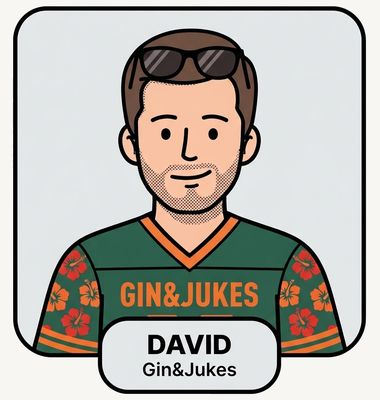
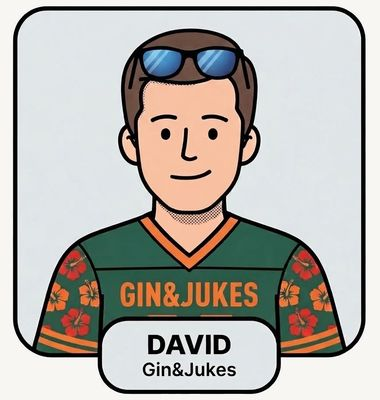
Add files via upload

diff --git a/assets/app.js b/assets/app.js
@@ -216,6 +216,7 @@
     }
 
     h += lineup();
+    h += formerMembers();
     h += '<div class="wordwall" aria-hidden="true"><span>BUY-IN BOWL</span></div>';
     return h;
   }
@@ -546,6 +547,35 @@
     return h + "</div>";
   }
 
+  /* Managers who played before but are not in the current season */
+  function formerMembers() {
+    var cur = years()[0];
+    var list = (L.managers || []).filter(function (m) {
+      return m.teams && !m.teams[cur] && Object.keys(m.teams).length;
+    });
+    if (!list.length) return "";
+    var h = '<div class="wrap"><section class="crew-block former-block">';
+    h += '<h2 class="sec">Former league members</h2><div class="crew">';
+    list.forEach(function (m) {
+      var ys = Object.keys(m.teams).sort();
+      var lastTeam = m.teams[ys[ys.length - 1]];
+      var label = esc(m.name || "") + ", " + esc(lastTeam);
+      if (has(m.card)) {
+        h += '<button type="button" class="crew-card" data-profile="' + m.id + '" aria-label="' + label + '">' +
+          '<img src="' + esc(m.card) + '" alt="" loading="lazy">' +
+          (m.country ? '<span class="crew-flag">' + flagSvg(m.country) + "</span>" : "") +
+          '<span class="former-years">' + ys.join(", ") + "</span></button>";
+      } else {
+        h += '<button type="button" class="crew-card former-card" data-profile="' + m.id + '" aria-label="' + label + '">' +
+          '<span class="fc-frame">' + (has(m.avatar) ? '<img src="' + esc(m.avatar) + '" alt="">' : "") + "</span>" +
+          (m.country ? '<span class="crew-flag">' + flagSvg(m.country) + "</span>" : "") +
+          '<span class="fc-label"><b>' + esc(m.name || "") + "</b><small>" + esc(lastTeam) + "</small></span>" +
+          '<span class="former-years">' + ys.join(", ") + "</span></button>";
+      }
+    });
+    return h + "</div></section></div>";
+  }
+
   /* ---------- All-time table ---------- */
   var mTab = "all";
   var mSort = { key: "power", dir: -1 };
@@ -755,6 +785,7 @@
   /* ---------- Power lines: all-time rank after each season ---------- */
   /* Available width of each chart, measured after the first render */
   var chartW = { all: 0, week: 0 };
+  var reflowDepth = 0;
   function powerRank(rows) {
     return rows.slice().sort(function (a, b) {
       return b.titles - a.titles || b.pf - a.pf || b.wins - a.wins ||
@@ -804,7 +835,9 @@
     ids.forEach(function (id) {
       s += '<clipPath id="plc-' + id + '"><circle r="10.5"/></clipPath>';
     });
-    s += '<filter id="pl-gray"><feColorMatrix type="saturate" values="0"/></filter></defs>';
+    s += '<filter id="pl-gray"><feColorMatrix type="saturate" values="0"/></filter>';
+    s += '<clipPath id="rv-all"><rect class="pl-reveal" x="0" y="0" width="' + W + '" height="' + H +
+      '" data-w="' + W + '" data-end="' + (xOf(yrs.length - 1) + 16) + '"/></clipPath></defs>';
 
     /* grid */
     for (var r = 1; r <= N; r++) {
@@ -835,12 +868,12 @@
         var a = pts[k - 1], b = pts[k];
         var xa = xOf(a.i), xb = xOf(b.i), ya = yOf(a.r), yb = yOf(b.r), mx = (xa + xb) / 2;
         var played = m.teams && m.teams[b.y];
-        s += '<path class="pl-line' + (played ? "" : " off") + '" d="M' + xa + " " + ya +
+        s += '<path class="pl-line' + (played ? "" : " off") + '" clip-path="url(#rv-all)" d="M' + xa + " " + ya +
           " C" + mx + " " + ya + " " + mx + " " + yb + " " + xb + " " + yb + '"/>';
       }
       pts.forEach(function (p, k) {
         if (k === pts.length - 1) return;
-        s += '<circle class="pl-dot" cx="' + xOf(p.i) + '" cy="' + yOf(p.r) + '" r="4"/>';
+        s += '<circle class="pl-dot" clip-path="url(#rv-all)" cx="' + xOf(p.i) + '" cy="' + yOf(p.r) + '" r="4"/>';
       });
 
       var e = pts[pts.length - 1], ex = xOf(e.i), ey = yOf(e.r);
@@ -932,6 +965,8 @@
     var sv = '<svg class="wl-svg" viewBox="0 0 ' + W + " " + H + '" width="' + W + '" height="' + H + '">';
     sv += "<defs>";
     ids.forEach(function (id) { sv += '<clipPath id="wlc-' + id + '"><circle r="10"/></clipPath>'; });
+    sv += '<clipPath id="rv-wk"><rect class="pl-reveal" x="0" y="0" width="' + W + '" height="' + H +
+      '" data-w="' + W + '" data-end="' + (xOf(lastIdx) + 16) + '"/></clipPath>';
     sv += "</defs>";
     for (r = 1; r <= N; r++) {
       sv += '<line class="pl-row" x1="0" x2="' + W + '" y1="' + yOf(r) + '" y2="' + yOf(r) + '"/>';
@@ -956,12 +991,12 @@
       for (var k = 1; k < pts.length; k++) {
         var a = pts[k - 1], b = pts[k];
         var xa = xOf(a.i), xb = xOf(b.i), ya = yOf(a.r), yb = yOf(b.r), mx = (xa + xb) / 2;
-        sv += '<path class="pl-line" d="M' + xa + " " + ya + " C" + mx + " " + ya + " " + mx + " " + yb +
+        sv += '<path class="pl-line" clip-path="url(#rv-wk)" d="M' + xa + " " + ya + " C" + mx + " " + ya + " " + mx + " " + yb +
           " " + xb + " " + yb + '"/>';
       }
       pts.forEach(function (p, k) {
         if (k === pts.length - 1) return;
-        sv += '<circle class="pl-dot" cx="' + xOf(p.i) + '" cy="' + yOf(p.r) + '" r="4"/>';
+        sv += '<circle class="pl-dot" clip-path="url(#rv-wk)" cx="' + xOf(p.i) + '" cy="' + yOf(p.r) + '" r="4"/>';
       });
       var e = pts[pts.length - 1];
       var img = has(m.face) ? m.face : m.avatar;
@@ -989,24 +1024,31 @@
   }
 
   function runPower(block) {
-    var lines = [].slice.call(block.querySelectorAll(".pl-line"));
-    var heads = [].slice.call(block.querySelectorAll(".pl-head, .pl-name, .pl-dot"));
-    lines.forEach(function (l) {
-      var len = l.getTotalLength ? l.getTotalLength() : 300;
-      l.style.transition = "none";
-      l.style.strokeDasharray = len;
-      l.style.strokeDashoffset = len;
-    });
+    var rect = block.querySelector(".pl-reveal");
+    var heads = [].slice.call(block.querySelectorAll(".pl-head, .pl-name"));
+    block.querySelectorAll(".pl-dot").forEach(function (n) { n.classList.add("on"); });
+    if (block._raf) cancelAnimationFrame(block._raf);
+    clearTimeout(block._headT);
     heads.forEach(function (n) { n.classList.remove("on"); });
-    void block.offsetWidth;
-    lines.forEach(function (l, i) {
-      l.style.transition = "stroke-dashoffset 1.6s cubic-bezier(.45,0,.2,1) " + (i * 0.08).toFixed(2) + "s";
-      l.style.strokeDashoffset = 0;
-    });
-    [].slice.call(block.querySelectorAll(".pl-dot")).forEach(function (n) { n.classList.add("on"); });
-    setTimeout(function () {
+    if (!rect) { heads.forEach(function (n) { n.classList.add("on"); }); return; }
+
+    var full = +rect.getAttribute("data-w") || 0;
+    var end = Math.min(full, +rect.getAttribute("data-end") || full);
+    /* weekly chart: pace per week; all-time chart: one steady sweep */
+    var steps = block.querySelectorAll(".wl-wk:not(.future)").length || block.querySelectorAll(".pl-year:not(.future)").length || 2;
+    var dur = Math.min(4200, 700 + steps * 650);
+    rect.setAttribute("width", 0);
+    var t0 = null;
+    function ease(k) { return k < 0.5 ? 2 * k * k : 1 - Math.pow(-2 * k + 2, 2) / 2; }
+    function step(ts) {
+      if (t0 === null) t0 = ts;
+      var k = Math.min(1, (ts - t0) / dur);
+      rect.setAttribute("width", (end * ease(k)).toFixed(1));
+      if (k < 1) { block._raf = requestAnimationFrame(step); return; }
+      rect.setAttribute("width", full);
       heads.forEach(function (n) { n.classList.add("on"); });
-    }, 1300 + lines.length * 80);
+    }
+    block._raf = requestAnimationFrame(step);
   }
 
   function measureCharts() {
@@ -1020,7 +1062,11 @@
 
   function wirePower() {
     /* first pass: size the charts to the card, then render once more */
-    if (current === "table" && measureCharts()) { render("table", true); return; }
+    if (current === "table" && reflowDepth === 0 && measureCharts()) {
+      reflowDepth++;
+      try { render("table", true); } finally { reflowDepth--; }
+      return;
+    }
     [].slice.call(root.querySelectorAll(".pl-block")).forEach(function (block) {
       var sc = block.querySelector(".wl-scroll");
       if (sc) {

diff --git a/assets/style.css b/assets/style.css
@@ -944,3 +944,28 @@ html.sheet-lock, html.sheet-lock body { overflow: hidden; }
 .cc-note { min-height: 2.6em; line-height: 1.3; }
 .cyear .bb { display: block; font-size: 0.72rem; color: var(--muted); margin-top: 0.2rem; white-space: nowrap; }
 .cyear .bb .rn { font-variant: small-caps; letter-spacing: 0.06em; font-weight: 700; }
+
+/* ---------- Former league members ---------- */
+.former-block { margin-top: 2.5rem; }
+.former-years {
+  position: absolute; top: 5%; right: 7%;
+  padding: 0.2rem 0.5rem; border-radius: 999px;
+  background: var(--ink); color: #fff; font-size: 0.68rem; font-weight: 700; letter-spacing: 0.04em;
+}
+.former-card {
+  display: flex; flex-direction: column; align-items: center;
+  aspect-ratio: 380 / 400; padding: 0 0 4%;
+}
+.fc-frame {
+  width: 88%; flex: 1; margin-top: 3%;
+  border: 3px solid var(--ink); border-radius: 18px; overflow: hidden;
+  background: #ECEDEF; display: grid; place-items: center;
+}
+.fc-frame img { width: 78%; height: auto; display: block; border-radius: 0; }
+.fc-label {
+  margin-top: -1.4rem; position: relative;
+  background: #E4E6E9; border: 3px solid var(--ink); border-radius: 14px;
+  padding: 0.35rem 1rem 0.4rem; text-align: center; min-width: 62%;
+}
+.fc-label b { display: block; font-size: 0.95rem; letter-spacing: 0.04em; text-transform: uppercase; }
+.fc-label small { display: block; font-size: 0.7rem; color: var(--ink-2); }

diff --git a/index.html b/index.html
@@ -10,7 +10,7 @@
 <meta name="description" content="The Buy-In Bowl archive: champions, standings, rosters, trades and league chat from every season.">
 <link rel="preconnect" href="https://fonts.googleapis.com">
 <link rel="preconnect" href="https://fonts.gstatic.com" crossorigin>
-<link href="https://fonts.googleapis.com/css2?family=Anton&family=Inter:wght@400;500;600;700;800&display=swap" rel="stylesheet">
+<link href="https://fonts.googleapis.com/css2?family=Anton&family=Inter:wght@400;500;600;700;800&display=swap" rel="stylesheet" media="print" onload="this.media='all'">
 <link rel="stylesheet" href="assets/style.css">
 </head>
 <body>
